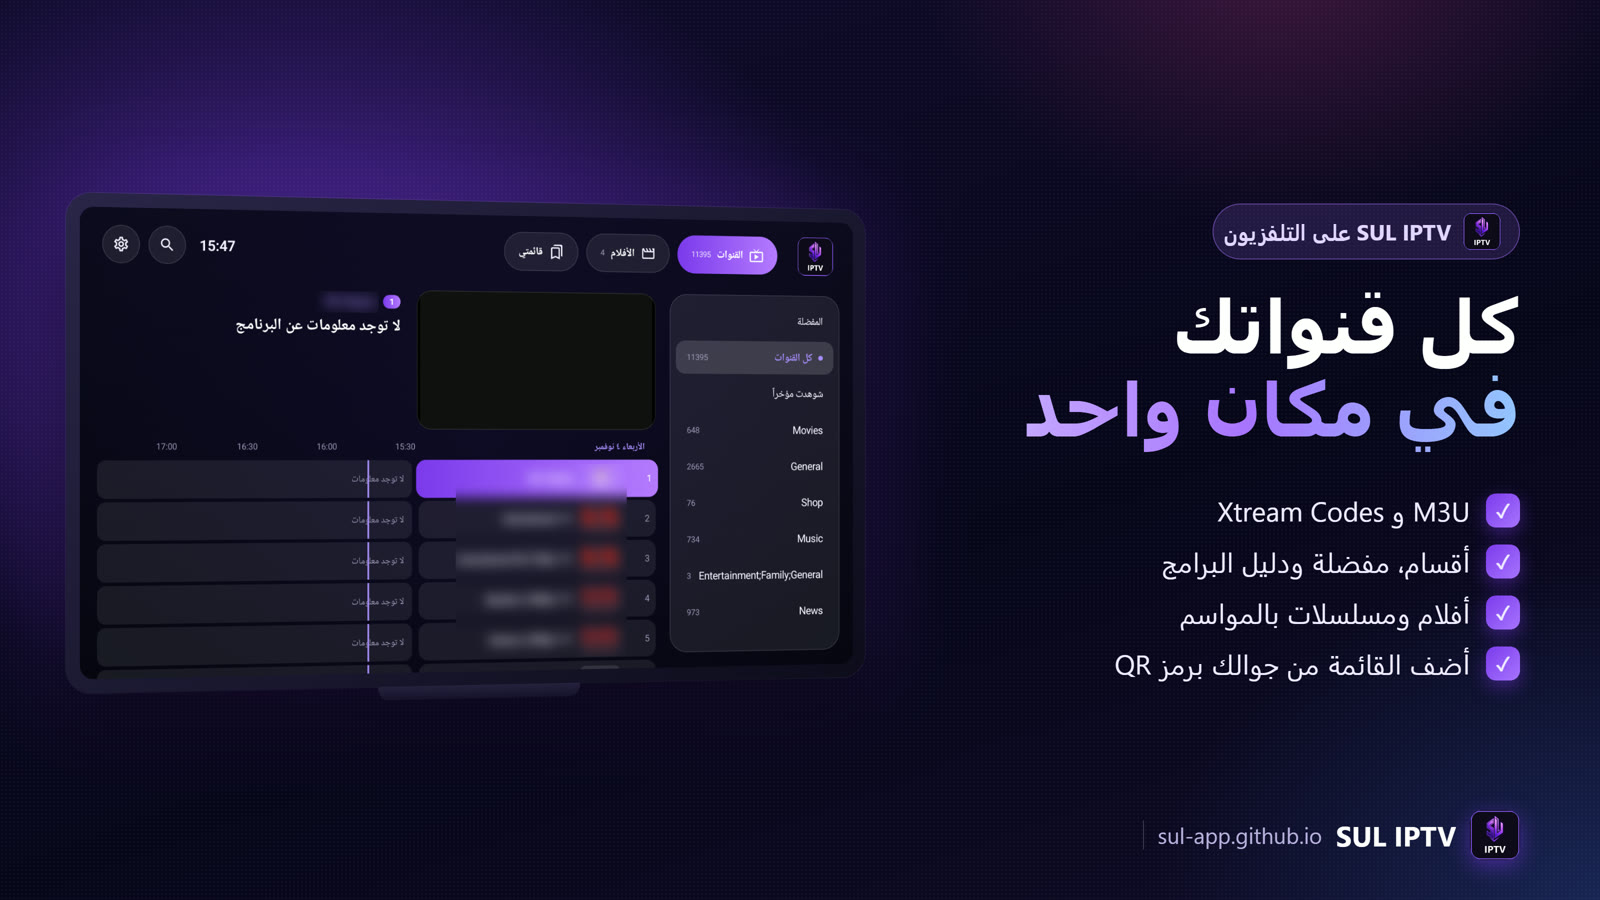
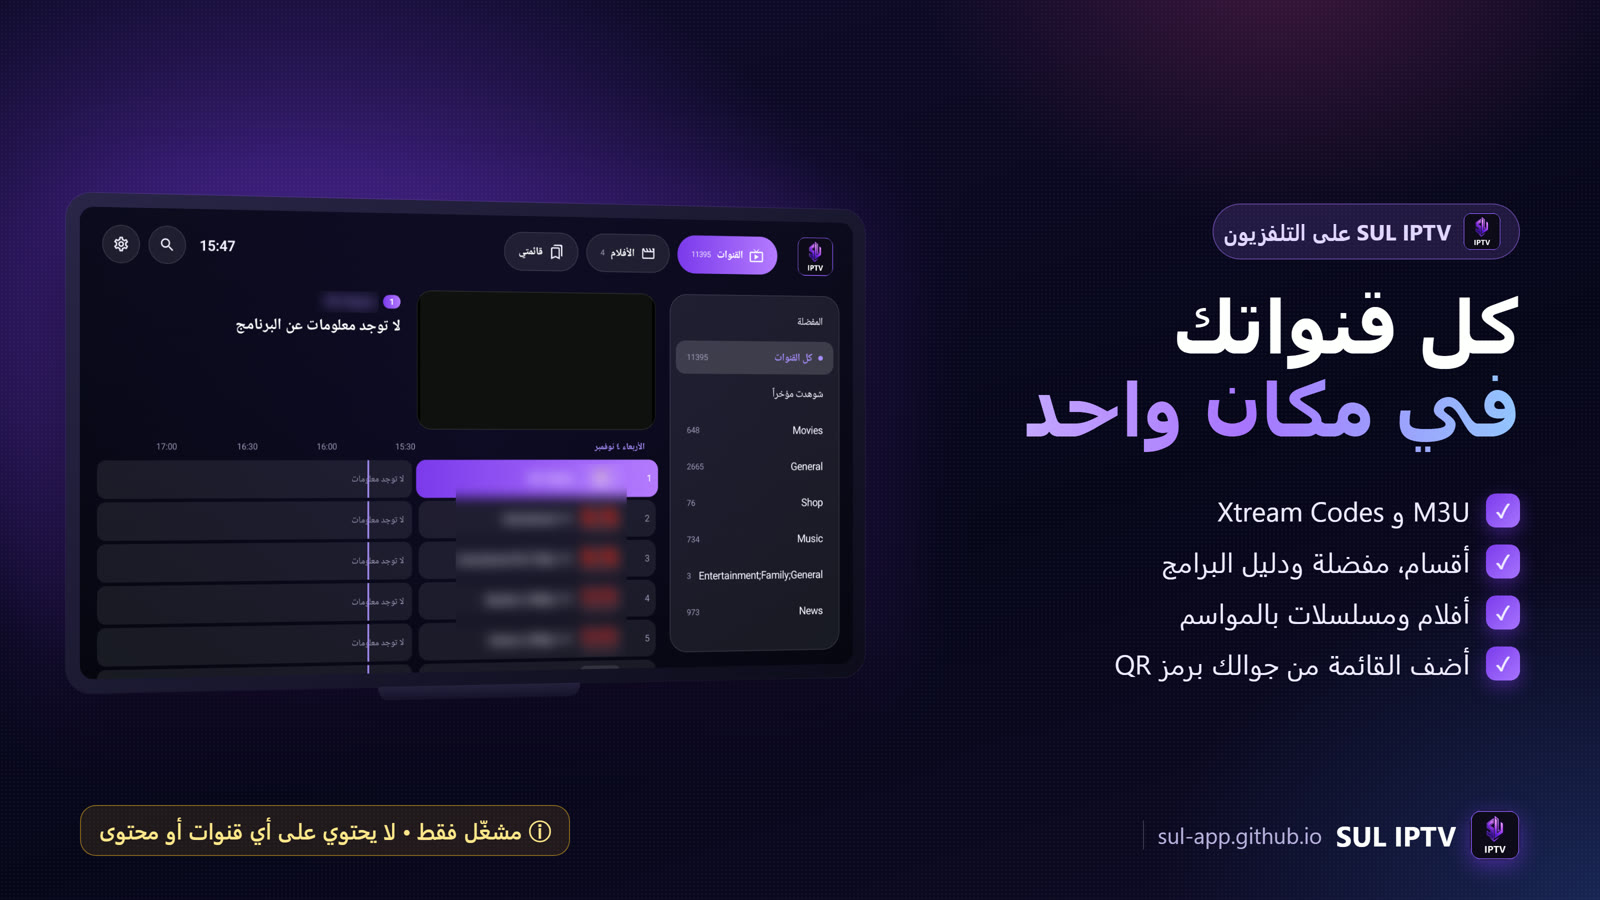
SUL IPTV: new phone screenshots, player-only note

Changed region(s): [[0.0312, 0.8711, 0.375, 0.9644]]

diff --git a/index.html b/index.html
@@ -116,6 +116,7 @@
       <h2 style="margin:0">SUL IPTV</h2>
     </div>
     <p class="lead">تطبيق مستقل لمشغّل IPTV حق SUL: تثبّته لحاله على الجوال أو التلفزيون أو البوكس، وما يحتاج تثبيت SUL. أضف قائمتك وشغّل قنواتك وأفلامك ومسلسلاتك. SUL IPTV مشغّل فقط ولا يوفّر أي قنوات أو محتوى.</p>
+    <div class="note" id="iptvnote"><b>مشغّل فقط:</b> SUL IPTV ما يحتوي على أي قنوات أو أفلام أو اشتراكات. تضيف أنت رابط قائمتك (M3U أو Xtream) من مزوّدك، والصور هنا لتوضيح الواجهة بس.</div>
     <a class="dl" href="SUL-IPTV.apk" download>
       <span class="num">⬇</span>
       <span><div class="n">تنزيل SUL IPTV</div><div class="d">أندرويد 8 وأحدث • جوال وتلفزيون</div></span>
@@ -125,7 +126,7 @@
       <img src="img/iptv-1.jpg" alt="SUL IPTV على التلفزيون: القنوات والأقسام" loading="lazy">
       <img src="img/iptv-2.jpg" alt="SUL IPTV: الدقة الحقيقية حتى 4K" loading="lazy">
       <img src="img/iptv-3.jpg" alt="SUL IPTV على الجوال: تقليب القنوات بالسحب" loading="lazy">
-      <img src="img/iptv-4.jpg" alt="SUL IPTV على الجوال بالعرضي" loading="lazy">
+      <img src="img/iptv-4.jpg" alt="SUL IPTV على الجوال بالعرضي: الدقة الحقيقية" loading="lazy">
     </div>
     <div class="grid" style="margin-top:16px">
       <div class="card"><span class="ic">📋</span><h3>قوائمك كلها</h3><p>رابط M3U أو بيانات Xtream Codes، وأكثر من قائمة مع التبديل بينها. على التلفزيون تقدر تضيف القائمة من جوالك برمز QR بدل الكتابة بالريموت.</p></div>
